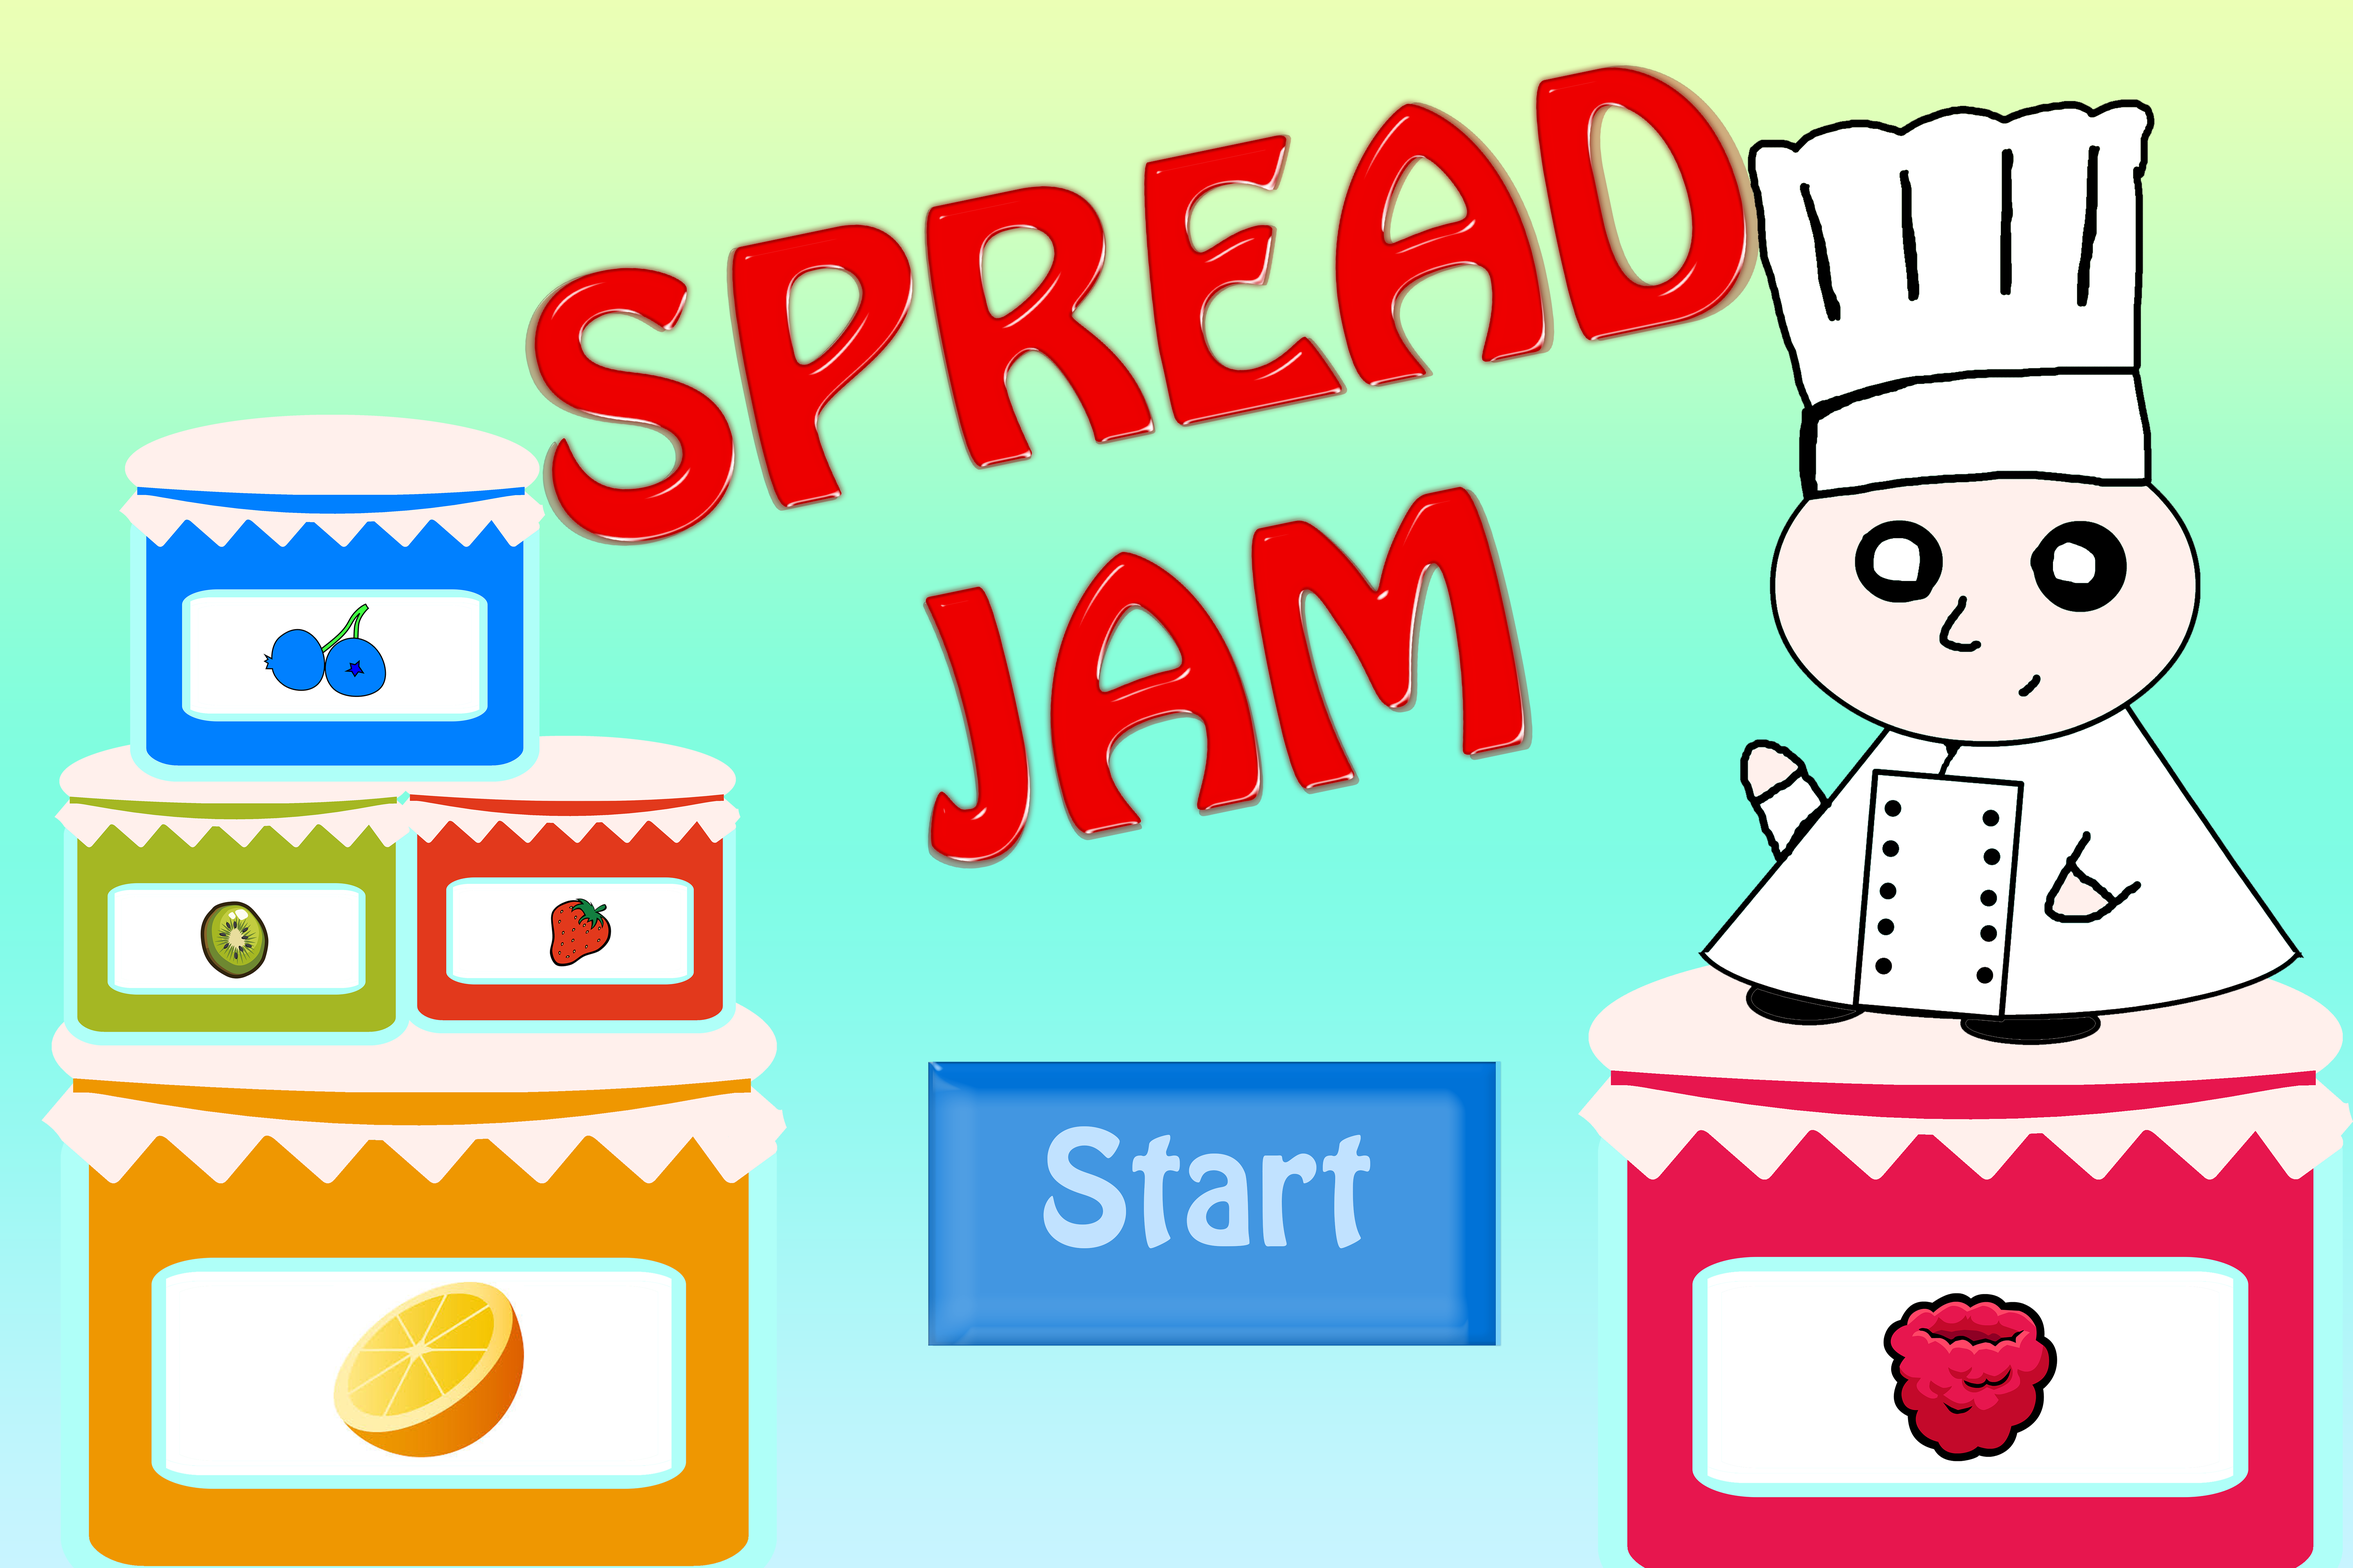
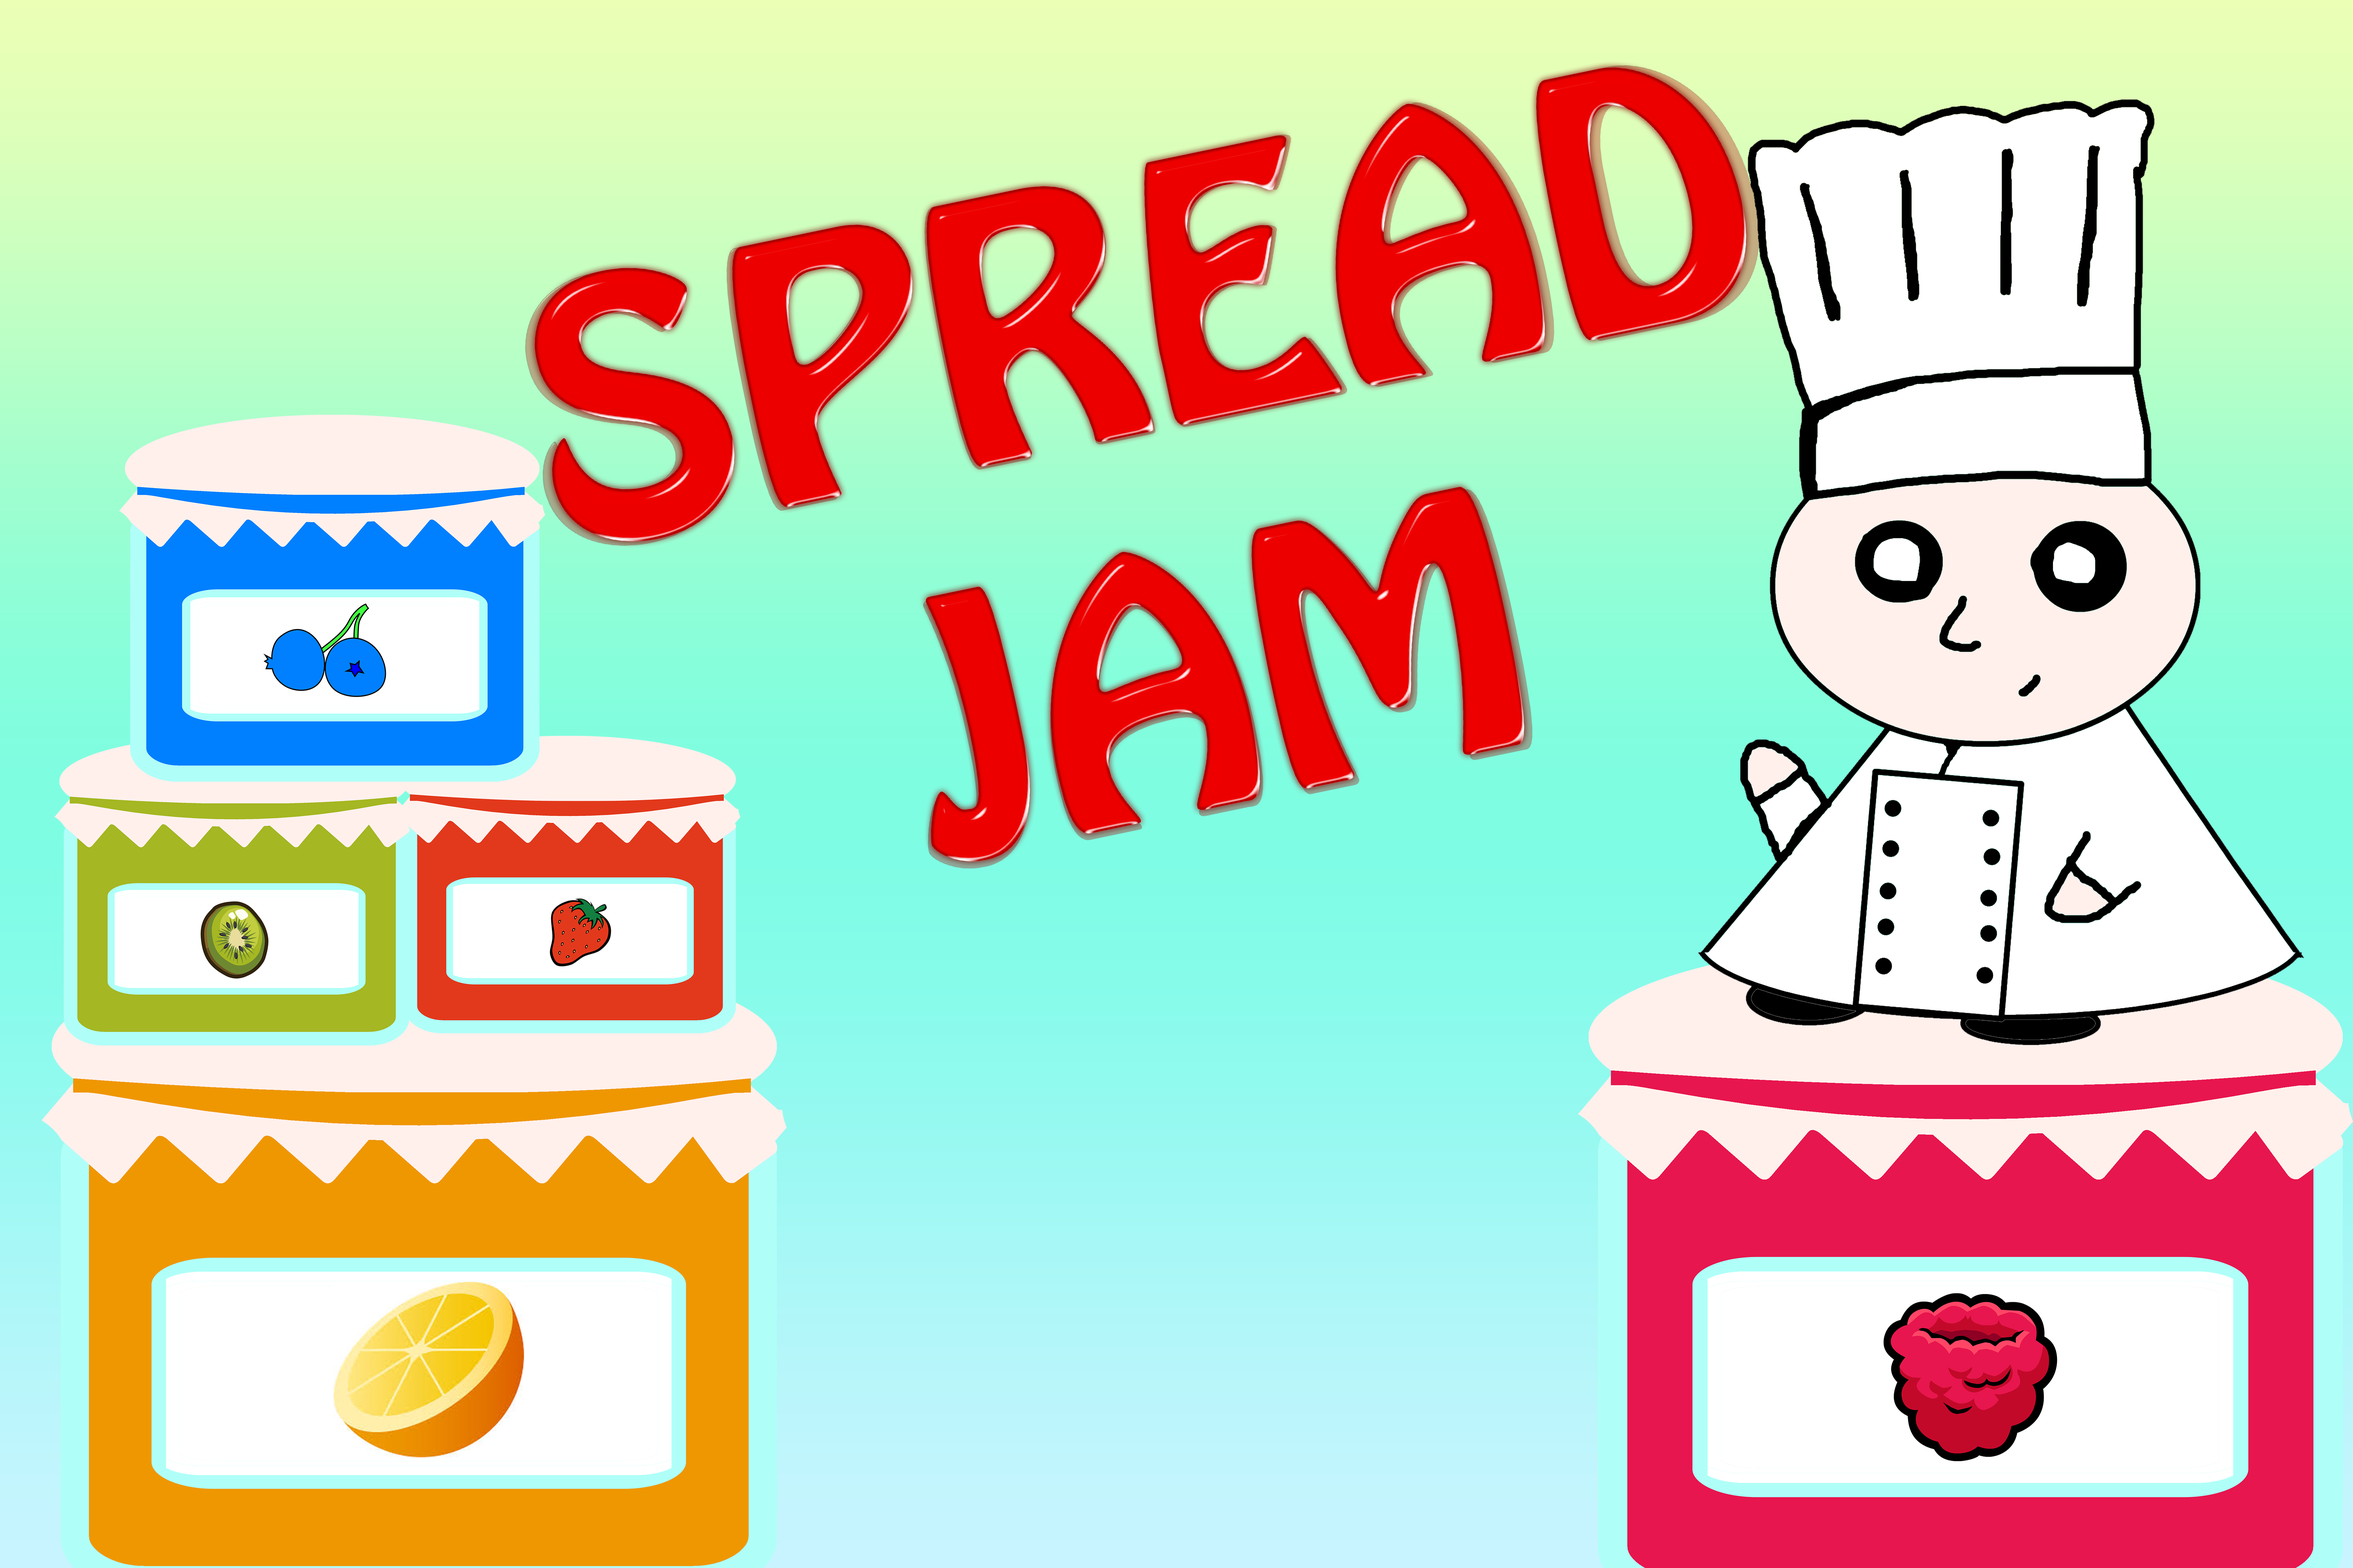
Finished main screen

Changed region(s): [[0.374, 0.6562, 0.6545, 0.875]]

diff --git a/GameSolution/Client/src/Components/StartScreen/Start.js b/GameSolution/Client/src/Components/StartScreen/Start.js
@@ -1,16 +1,30 @@
 import React, { Component } from 'react';
-import Main from "../../imgs/main.png";
+import { getMainImage, getButton } from '../../assets/TextureLoader';
 
 
 class Start extends Component {
-    constructor(props) {
-        super(props);
-        props.screen = "main";
-    }
     render() {
         return(
         <div>
-            <Main />
+            <img src={getMainImage()} style={{
+                position: "relative",
+                top: 0,
+                left: 0,
+                height: "95vh"
+                }}/>
+            <div>
+                <button style={{position: "absolute",
+                            top: "70vh", 
+                            height:"10vh",
+                            left: "46vw",
+                            background: "url("+getButton()+")",
+                            backgroundSize: "cover",
+                            width: "10vw",
+                            cursor: "pointer",
+                            border: "none"
+                        }}>
+                </button>
+            </div>
         </div>
         );
     }

diff --git a/GameSolution/Client/src/assets/TextureLoader.js b/GameSolution/Client/src/assets/TextureLoader.js
@@ -16,6 +16,7 @@ import redCrown from "../imgs/crown_red.png";
 import greenCrown from "../imgs/crown_green.png";
 import orangeCrown from "../imgs/crown_orange.png";
 import main from "../imgs/main.png";
+import button from "../imgs/button.png";
 
 
 export const getCell = (color, size) => {
@@ -52,3 +53,5 @@ export const getCrown = (color) => {
 } 
 
 export const getMainImage = () => main;
+
+export const getButton = () => button;

diff --git a/GameSolution/Client/src/Components/App/App.jsx b/GameSolution/Client/src/Components/App/App.jsx
@@ -6,12 +6,12 @@ import Start from '../StartScreen/Start';
 class App extends Component {
   constructor(props) {
     super(props);
-    this.screen = {screen: "main"};
+    this.state = {screen: "main"};
   }
   render() {
     return (
       <div className="App">
-        {(this.props.screen === "main") ? <Start /> : <Game />}
+        {(this.state.screen === "main") ? <Start /> : <Game />}
       </div>
     );
   }
